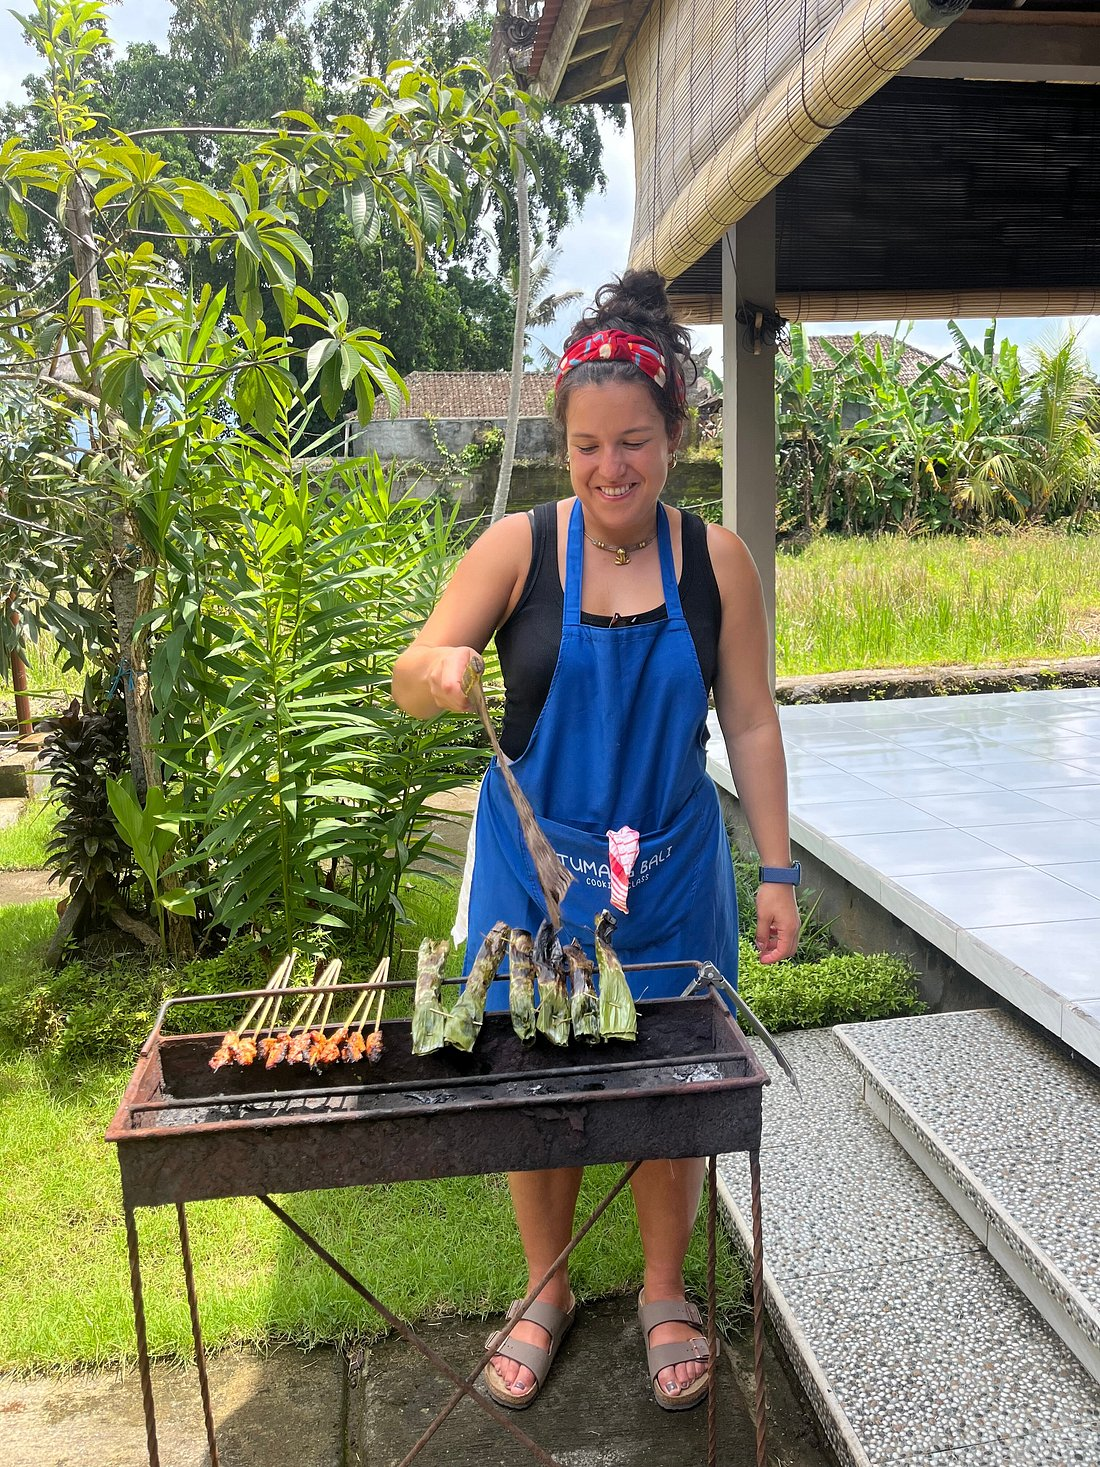
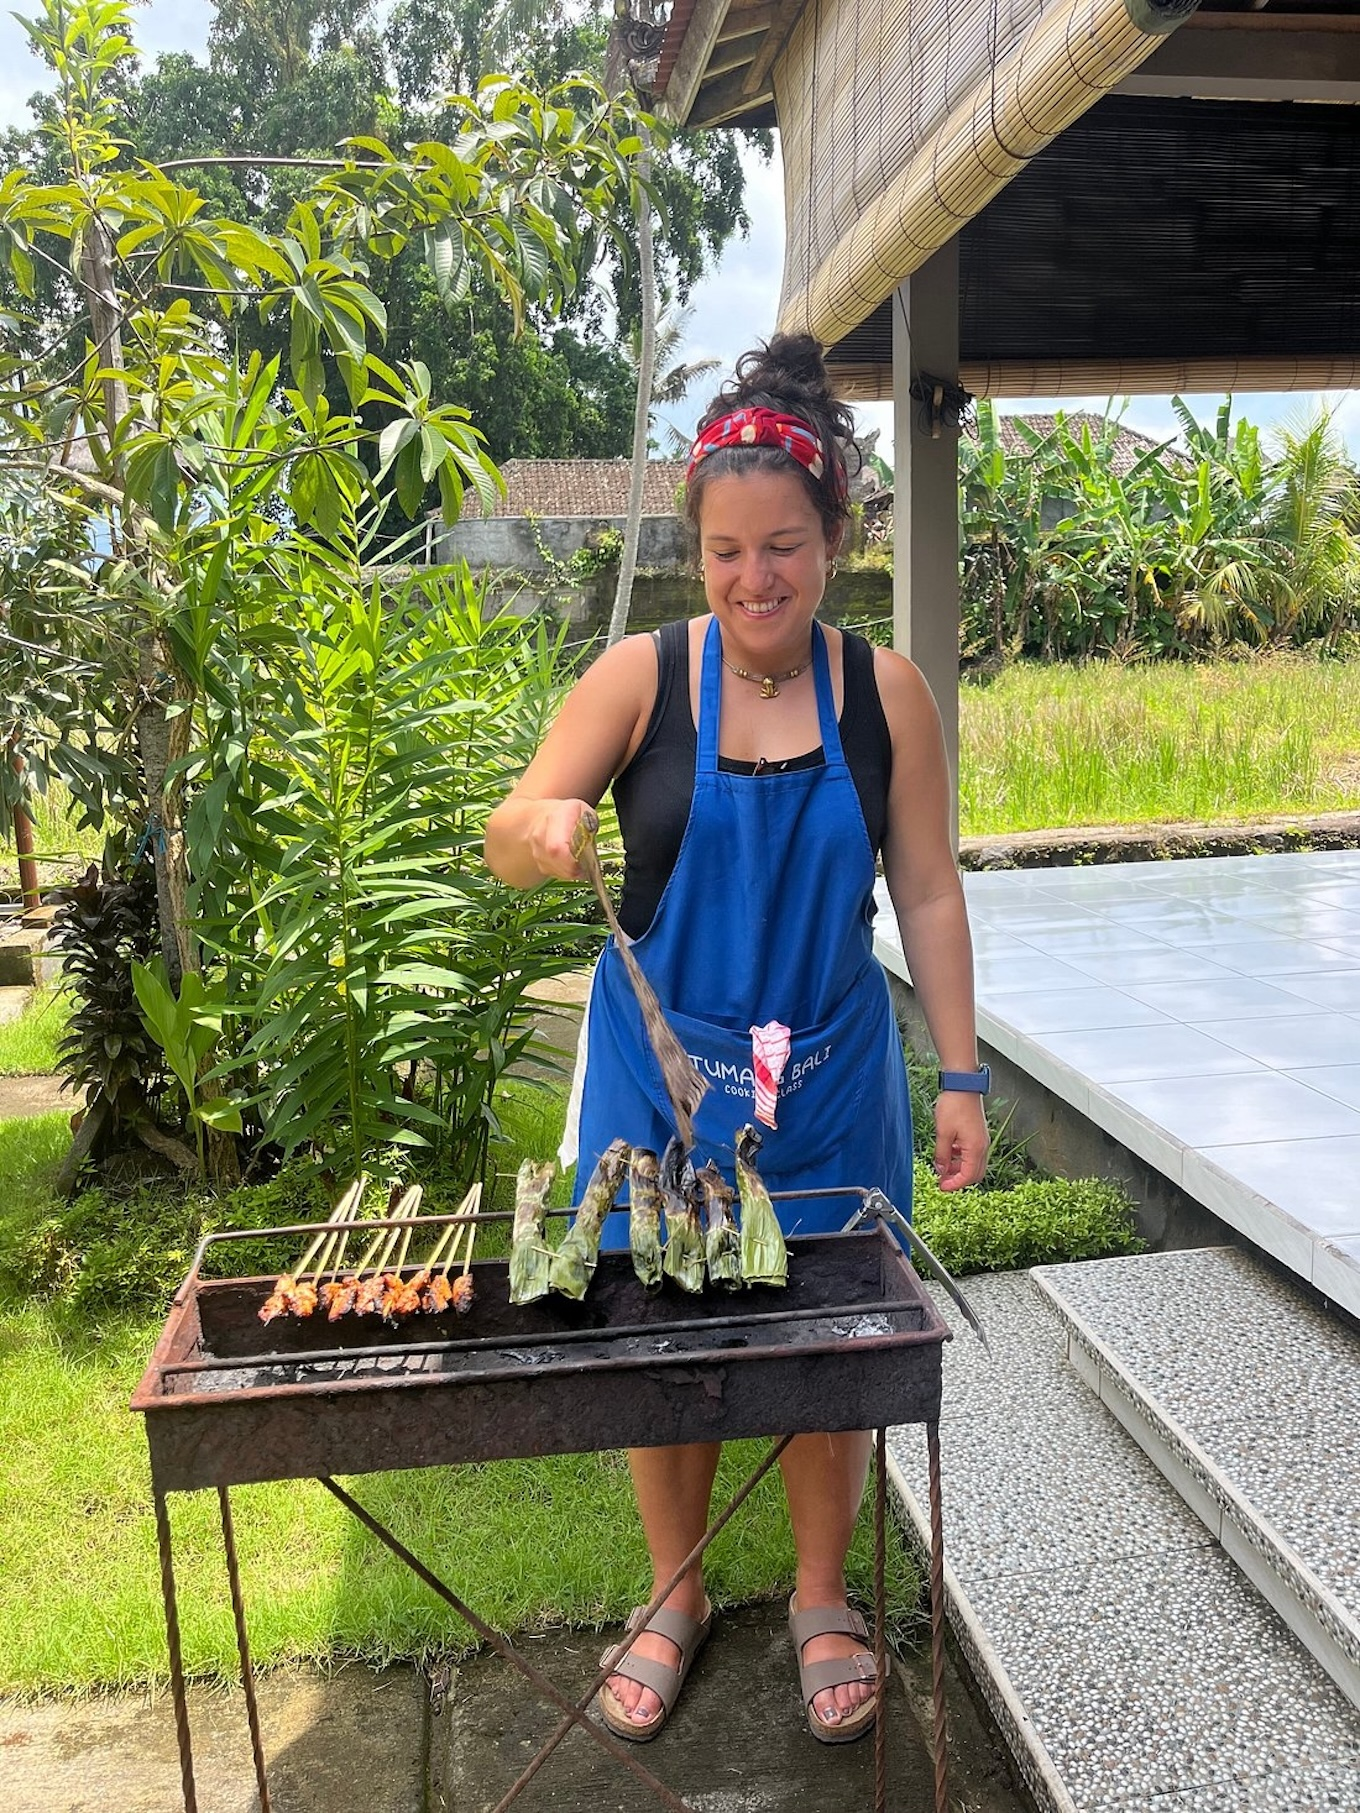
fix(itinerary): serve itinerary images statically for SEO and reliability

diff --git a/tumang-bali-cms/src/app/(app)/components/ItinerarySection.tsx b/tumang-bali-cms/src/app/(app)/components/ItinerarySection.tsx
@@ -8,9 +8,16 @@ type ItineraryStep = {
   description: string
   image: string | any
 }
-
 export default function ItinerarySection({ steps: payloadSteps }: { steps?: ItineraryStep[] }) {
-  const steps = payloadSteps && payloadSteps.length > 0 ? payloadSteps : [
+  const staticImages = [
+    '/images/img5.jpg',                 // Step 1: Hotel Pickup
+    '/images/itinerary/market.jpg',     // Step 2: Ubud Local Market
+    '/images/itinerary/ricefield.jpg',  // Step 3: Ricefield Walk
+    '/images/itinerary/cooking.jpg',    // Step 4: Cooking Class
+    '/images/itinerary/canang.jpg',     // Step 5: Local Restaurant/Dining
+  ]
+
+  const rawSteps = payloadSteps && payloadSteps.length > 0 ? payloadSteps : [
     {
       title: "Hotel Pickup",
       duration: "30–60 mins",
@@ -21,27 +28,32 @@ export default function ItinerarySection({ steps: payloadSteps }: { steps?: Itin
       title: "Stop 1: Ubud Local Market",
       duration: "45 mins",
       description: "Meet your guide and explore the traditional morning market. You will see where locals shop and buy the fresh spices, vegetables, and ingredients you need for the class.",
-      image: "/images/img2.jpg"
+      image: "/images/itinerary/market.jpg"
     },
     {
       title: "Stop 2: Ricefield Walk",
       duration: "30 mins",
       description: "Take a short, beautiful walk through the green rice paddies. Learn how Balinese farmers grow rice before arriving at the kitchen.",
-      image: "/images/img3.jpg"
+      image: "/images/itinerary/ricefield.jpg"
     },
     {
       title: "Stop 3: Cooking Class",
       duration: "2 hours",
       description: "Arrive at Tumang Balinese Kitchen. Enjoy a welcome drink, put on your apron, and learn about the ingredients. For the next two hours, you will chop, mix, and cook 4 to 5 traditional Balinese dishes step-by-step with your chef.",
-      image: "/images/img1.jpg"
+      image: "/images/itinerary/cooking.jpg"
     },
     {
       title: "Stop 4: Local Restaurant",
       duration: "1 hour",
       description: "Move to our peaceful dining area or local restaurant space. Sit down at the table with the rest of the group to eat the delicious food you just cooked. Relax, enjoy the view, and share stories before heading back to your hotel.",
-      image: "/images/img4.jpg"
+      image: "/images/itinerary/canang.jpg"
     }
   ]
+
+  const steps = rawSteps.map((step, index) => ({
+    ...step,
+    image: staticImages[index] || (typeof step.image === 'object' && step.image?.url ? step.image.url : step.image)
+  }))
 
   return (
     <section id="itinerary" className="py-24 px-6 max-w-5xl mx-auto overflow-hidden">

diff --git a/tumang-bali-cms/src/app/(app)/id/page.tsx b/tumang-bali-cms/src/app/(app)/id/page.tsx
@@ -46,25 +46,25 @@ const highlights = [
     title: 'Tur Pasar Lokal',
     description:
       'Jelajahi pasar pagi tradisional Ubud dan temukan rempah, sayuran, serta bahan segar khas Bali bersama pemandu kami.',
-    image: '/images/img2.jpg',
+    image: '/images/itinerary/market.jpg',
   },
   {
     title: 'Jalan-Jalan di Sawah',
     description:
       'Nikmati jalan santai melewati hamparan sawah hijau dan pelajari cara petani Bali menanam padi sebelum kelas dimulai.',
-    image: '/images/img3.jpg',
+    image: '/images/itinerary/ricefield.jpg',
   },
   {
     title: 'Kelas Memasak Langsung',
     description:
       'Pakai celemek dan masak 10+ hidangan Bali tradisional langkah demi langkah bersama chef lokal berpengalaman.',
-    image: '/images/img1.jpg',
+    image: '/images/itinerary/cooking.jpg',
   },
   {
     title: 'Santap Bersama',
     description:
       'Duduk bersama dan nikmati hidangan yang baru Anda masak dengan pemandangan indah Ubud yang menenangkan.',
-    image: '/images/img4.jpg',
+    image: '/images/itinerary/canang.jpg',
   },
 ]
 